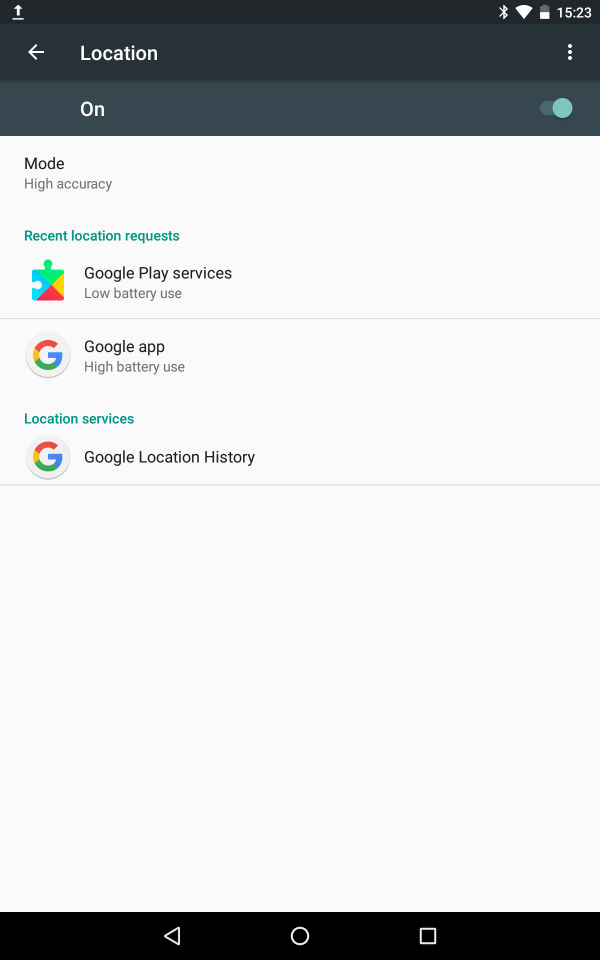
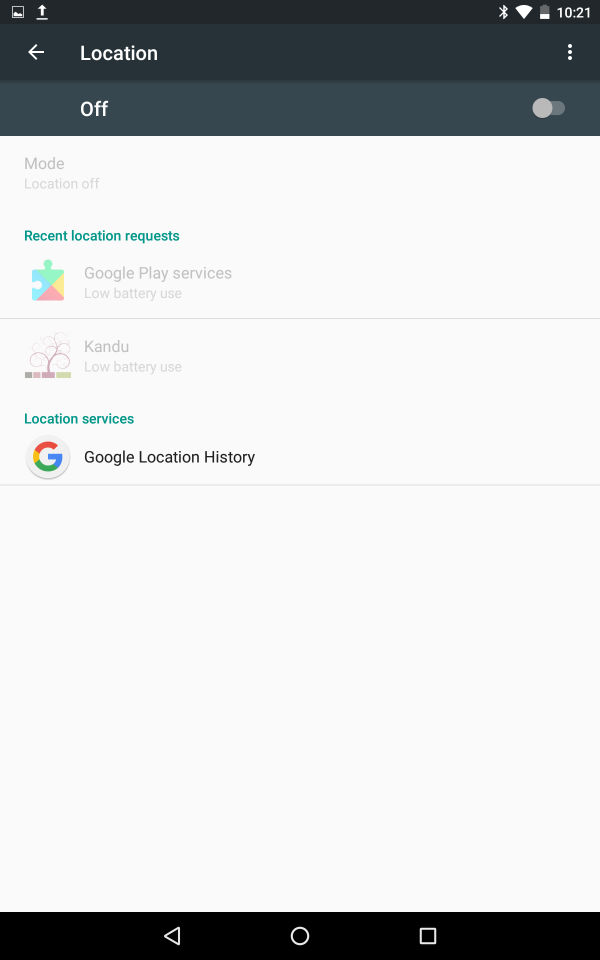
pull request response 1 - GPS

diff --git a/content.md b/content.md
@@ -281,10 +281,14 @@ Tap on add photo button and select the image to display information that needs t
 ![screenshot](./images/8/3.jpg)
 <div class="pagebreak"></div>
 
-### 8.4 Tap the toggle bar in the top of the screen to make sure the GPS in *On*, the toggle button should display in green, NOT grey and NOT say *off*. Tap *Mode* in the top-left hand of the screen below the toggle bar
+### 8.4 Tap the toggle bar in the top of the screen to make sure the GPS in *On*, the toggle button should display in green, NOT grey and NOT say *off*(see 8.5)
 ![screenshot](./images/8/4.jpg)
 <div class="pagebreak"></div>
 
-### 8.5 Tap *High accuracy*, your GPS is now enabled and working on it's optimal functionality
+### 8.5 Tap *Mode* in the top-left hand of the screen below the toggle bar
 ![screenshot](./images/8/5.jpg)
+<div class="pagebreak"></div>
+
+### 8.6 Tap *High accuracy* to ensure that most accurate methods are used to calculate location
+![screenshot](./images/8/6.jpg)
 <div class="pagebreak"></div>
